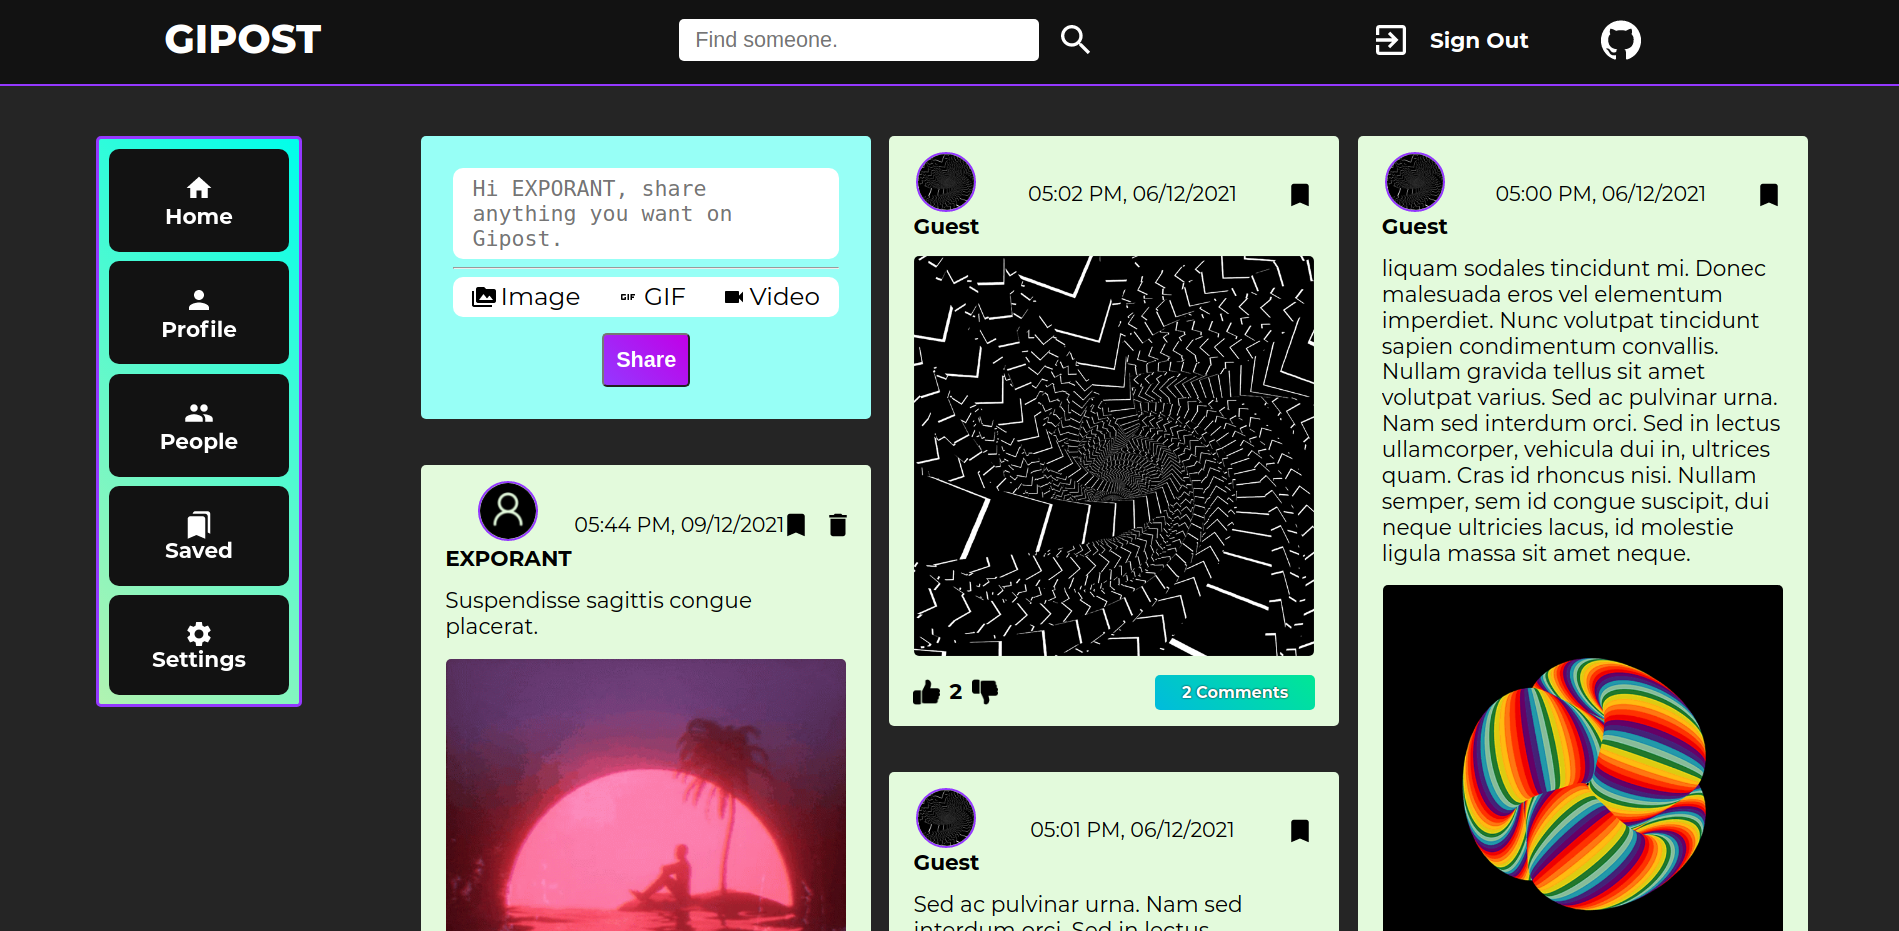
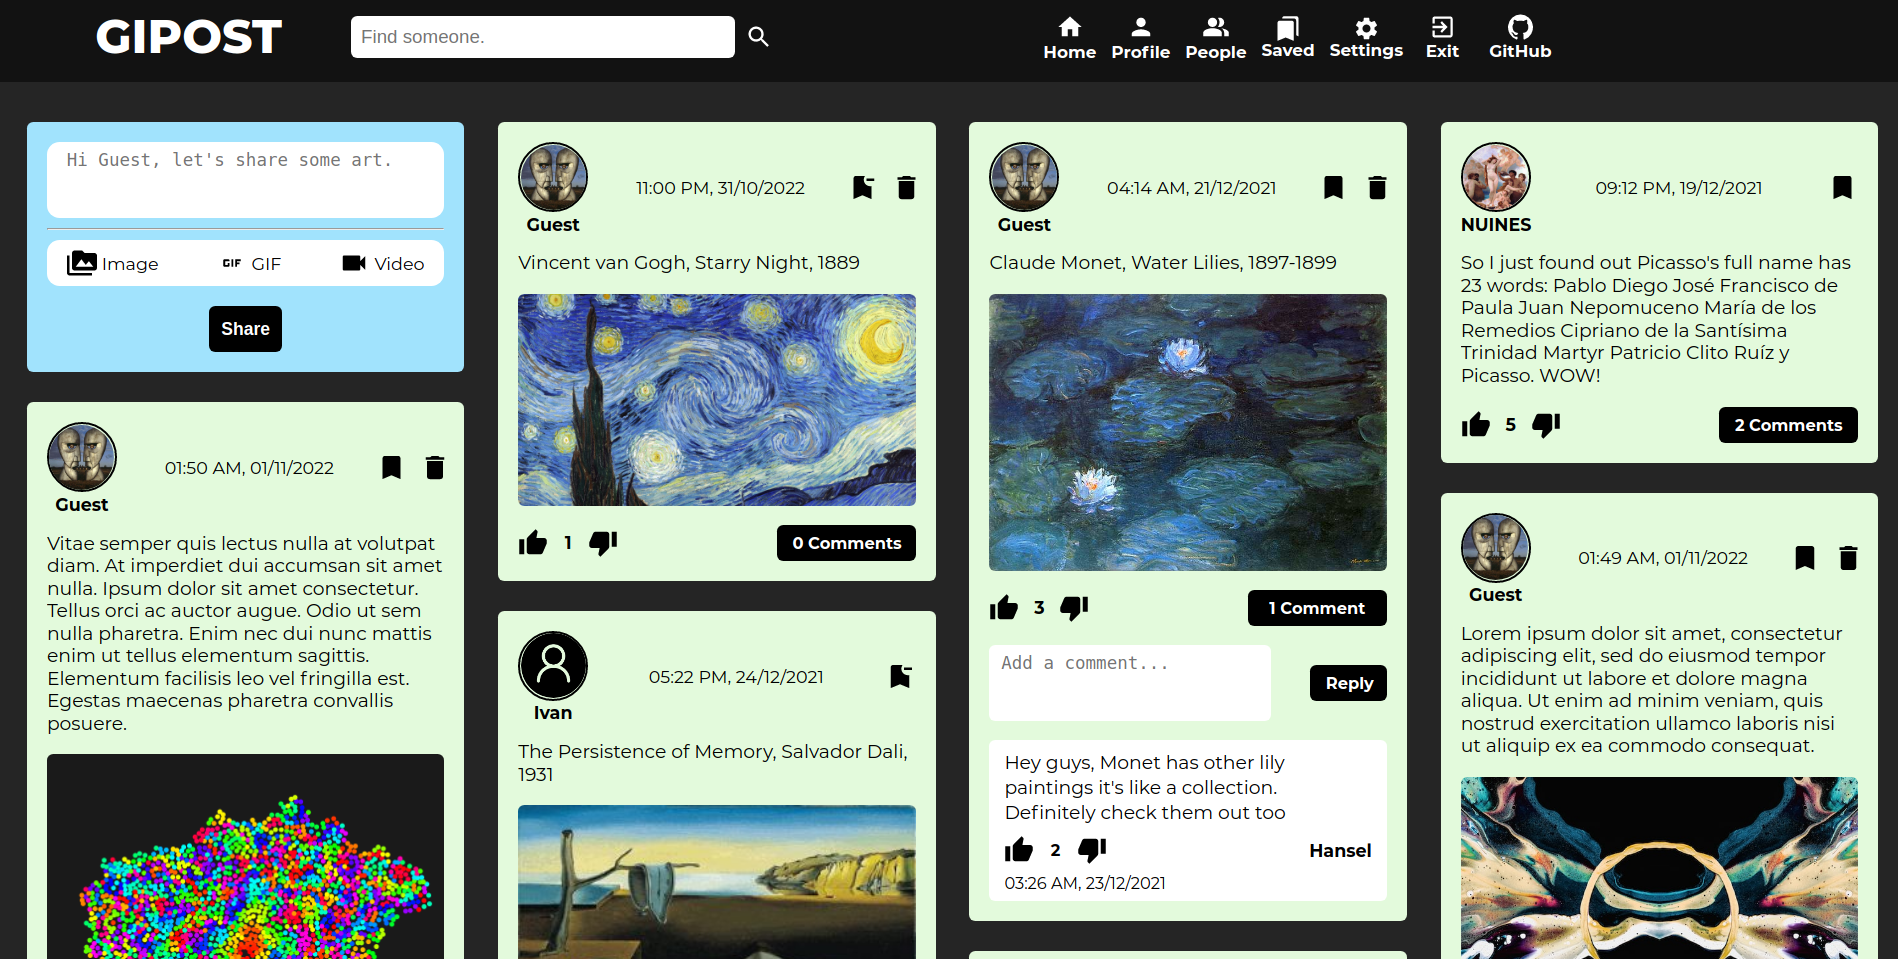
Update header, restrict guest actions, modify README.md, add new index to Comment schema

diff --git a/client/src/components/Profile.js b/client/src/components/Profile.js
@@ -1,21 +1,16 @@
 import React, { useEffect, useState, useContext } from 'react';
 import { useParams, useHistory } from 'react-router';
 import { Context } from '../context/Context';
-import {
-  updateDescription,
-  updateImage,
-  followOrUnfollow,
-} from '../apiCalls/userCalls';
+import { updateImage, followOrUnfollow } from '../apiCalls/userCalls';
 import Feed from './Feed';
 import axios from 'axios';
-import { Add, Remove, Edit, Done } from '@mui/icons-material';
+import { Add, Remove, Edit } from '@mui/icons-material';
 import defaultImage from '../assets/images/default-image.png';
 import '../assets/styles/Profile.css';
 
 function Profile() {
   const { user: currentUser, dispatch } = useContext(Context);
   const [user, setUser] = useState({});
-  const [editDescription, setEditDescription] = useState(false);
   const [file, setFile] = useState(null);
   const username = useParams().username;
   const history = useHistory();
@@ -48,7 +43,8 @@ function Profile() {
             src={user?.image ? user.image : defaultImage}
             alt="User profile image."
           ></img>
-          {username === currentUser.username ? (
+          {username === currentUser.username &&
+          currentUser.username !== 'Guest' ? (
             <label htmlFor="profile-picture">
               <span>
                 <Edit />
@@ -73,6 +69,7 @@ function Profile() {
             </div>
             {user !== {} && username !== currentUser.username && (
               <button
+                disabled={currentUser.username === 'Guest'}
                 onClick={() => {
                   followOrUnfollow(currentUser, user, dispatch);
                 }}

diff --git a/controllers/userController.js b/controllers/userController.js
@@ -159,10 +159,16 @@ exports.readFeed = async (req, res) => {
       .lean();
 
     const [userPosts, feed] = await Promise.all([
-      Post.find({ authorId: req.params.id }).limit(20).lean(),
+      Post.find({ authorId: req.params.id })
+        .limit(10)
+        .sort({ createdAt: -1 })
+        .lean(),
       await Promise.all(
         currentUser.following.map((followingId) => {
-          return Post.find({ authorId: followingId }).limit(20).lean();
+          return Post.find({ authorId: followingId })
+            .limit(10)
+            .sort({ createdAt: -1 })
+            .lean();
         })
       ),
     ]);
@@ -176,8 +182,8 @@ exports.readFeed = async (req, res) => {
 exports.readProfile = async (req, res) => {
   try {
     const profilePosts = await Post.find({ authorName: req.params.username })
-      .sort({ createdAt: -1 })
       .limit(20)
+      .sort({ createdAt: -1 })
       .lean();
 
     res.status(201).json(profilePosts);

diff --git a/client/src/assets/styles/Header.css b/client/src/assets/styles/Header.css
@@ -16,7 +16,7 @@ header {
   align-items: center;
   gap: 1.5vh;
   width: 100%;
-  padding: 1rem;
+  padding: 1rem 0.5rem;
 }
 
 .header-container-bottom {
@@ -45,14 +45,14 @@ header h2 {
   width: fit-content;
   min-width: 60%;
   overflow: hidden;
+  margin-right: 1.5rem;
 }
 
 .header-right {
   display: flex;
   align-items: center;
-  justify-content: space-evenly;
+  justify-content: center;
   flex-wrap: nowrap;
-  width: 30%;
   color: white;
 }
 
@@ -61,7 +61,7 @@ header ul {
   display: flex;
   align-items: center;
   justify-content: space-evenly;
-  gap: 1rem;
+  gap: min(1rem, 2%);
   list-style: none;
   text-align: center;
   font-family: 'Montserrat-Bold';
@@ -90,6 +90,7 @@ header a button {
     top: 0;
     justify-content: center;
     gap: 1vw;
+    padding: 1rem;
   }
 
   .header-container {

diff --git a/client/src/assets/styles/Profile.css b/client/src/assets/styles/Profile.css
@@ -139,6 +139,13 @@
   background: rgb(114, 114, 114);
 }
 
+.profile button[disabled],
+.profile button:disabled,
+.profile button[disabled] svg {
+  background: lightgray !important;
+  cursor: not-allowed !important;
+}
+
 @media (min-width: 600px) {
   .profile {
     margin: 0;
@@ -161,6 +168,10 @@
 
   .profile-details {
     padding: 0;
+  }
+
+  .profile-details button {
+    font-size: 14px;
   }
 
   .profile-main div {

diff --git a/client/src/components/Share.js b/client/src/components/Share.js
@@ -43,9 +43,7 @@ function Share({ posts, setPosts }) {
         <textarea
           cols="40"
           rows="3"
-          placeholder={
-            'Hi ' + user.username + ', share anything you want on Gipost.'
-          }
+          placeholder={'Hi ' + user.username + ", let's share some art."}
           ref={text}
         ></textarea>
       </div>

diff --git a/client/src/components/CommentSection.js b/client/src/components/CommentSection.js
@@ -56,7 +56,7 @@ function CommentSection({
       {showComments.clicked ? (
         <div className="new-comment">
           <textarea
-            placeholder="Say something nice."
+            placeholder="Add a comment..."
             cols="40"
             rows="3"
             autoComplete="off"

diff --git a/client/src/components/Header.js b/client/src/components/Header.js
@@ -4,7 +4,6 @@ import { Context } from '../context/Context';
 import { signOut } from '../apiCalls/authCalls';
 import Searchbar from './Searchbar';
 import { ExitToApp, GitHub } from '@mui/icons-material';
-import defaultImage from '../assets/images/default-image.png';
 import {
   Home,
   Person,

diff --git a/models/Comment.js b/models/Comment.js
@@ -31,6 +31,7 @@ const CommentSchema = new mongoose.Schema(
   { timestamps: true }
 );
 
+CommentSchema.index({ authorId: 1 });
 CommentSchema.index({ authorId: 1, createdAt: -1 });
 
 module.exports = mongoose.model('Comment', CommentSchema);
